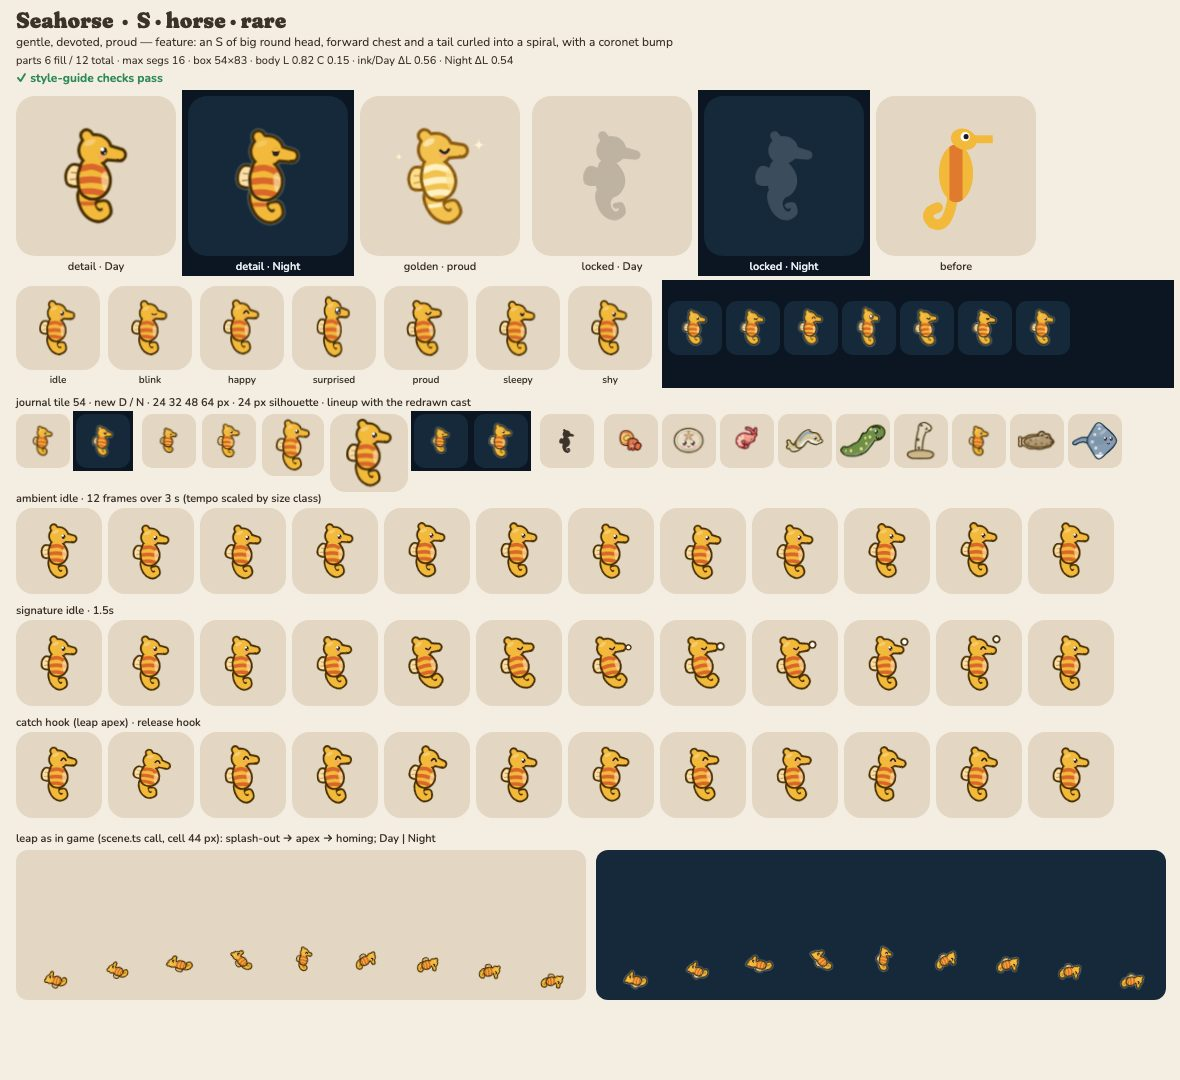
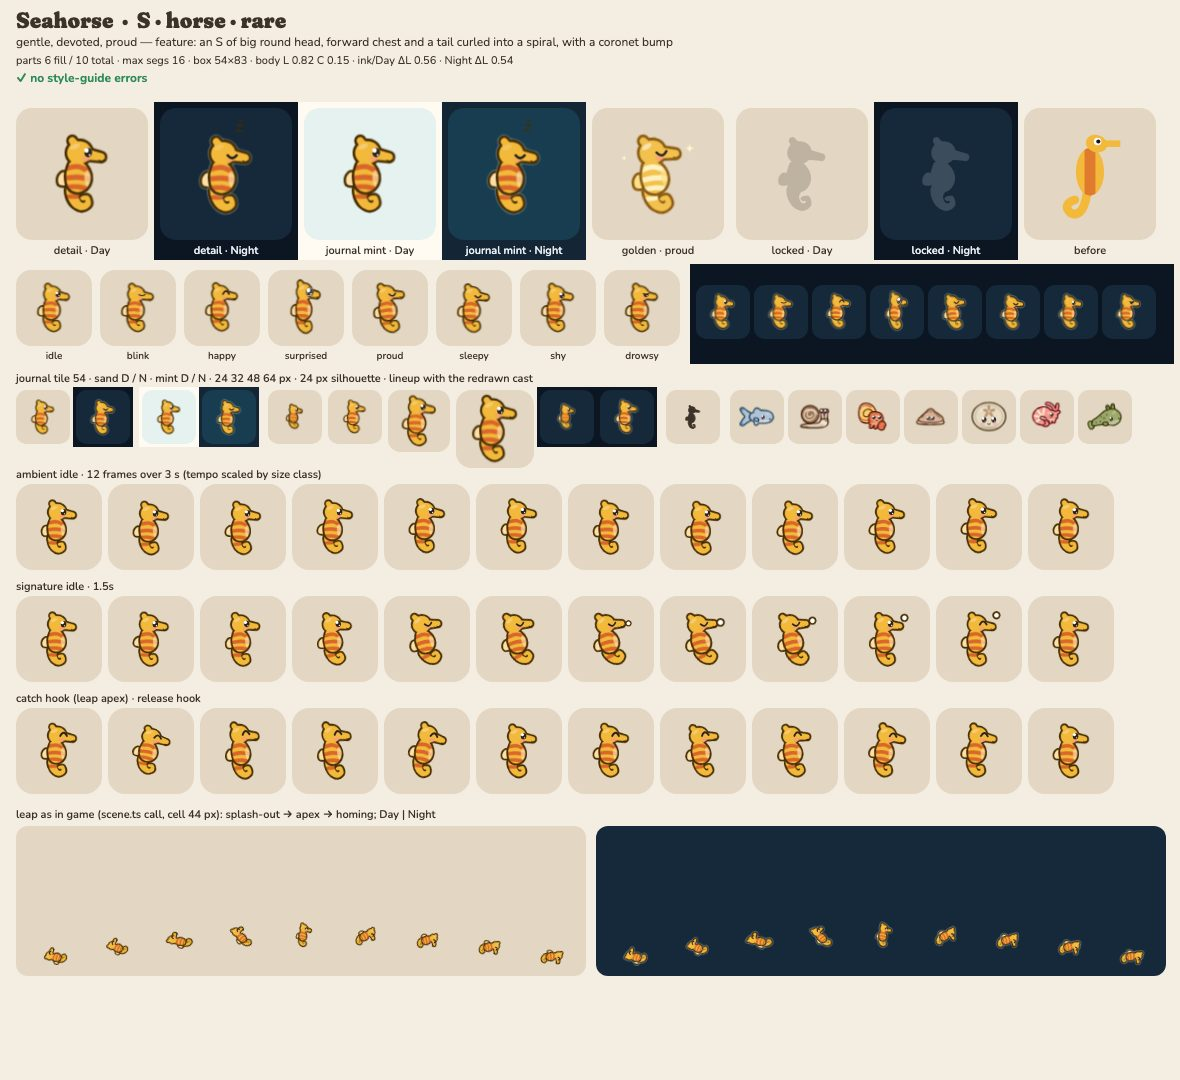
render: seahorse B fixes — low small dorsal, longer snout, bigger eye (ADR 0011)
CRITIQUE-1 B. Dorsal fan shrunk ~30 % and moved low on the back (no more ear), snout +15 %, eye 10.4 u (floor 10.3), tail band and bubble meet the pattern minimums. Lint clean.

diff --git a/src/render/art/species/seahorse.ts b/src/render/art/species/seahorse.ts
@@ -7,7 +7,7 @@
 import { blob, capsule, circle, defineArt, ellipse, join, tube } from '../kit.ts';
 
 const head = ellipse(1, -24, 14, 13, -10);
-const snout = capsule(10, -22, 6, 24, -19.5, 4.4);
+const snout = capsule(10, -22, 6, 26, -19, 4.4);
 const coronet = capsule(-4, -33, 5.6, -7, -37.5, 4.2);
 const torso = blob([
   [-8, -14],
@@ -29,12 +29,13 @@ const tail = tube([
   [10, 28, 3.2],
   [5, 28, 2.8],
 ]);
+// a small fan low on the back (bigger and higher, it read as an ear)
 const dorsal = blob([
-  [-11, -6],
-  [-20, -9],
-  [-25, -1],
-  [-23, 8],
-  [-12, 8],
+  [-11, 1],
+  [-18, -1.5],
+  [-23, 5],
+  [-21.5, 12.5],
+  [-12, 12],
 ]);
 const bands = join(
   tube([
@@ -64,11 +65,8 @@ export default defineArt({
   groups: [
     {
       id: 'finA',
-      pivot: [-12, 1],
-      parts: [
-        { d: dorsal, role: 'belly' },
-        { d: 'M-13 -2L-21 -3M-13 3L-22 4', role: 'ink', kind: 'line', w: 1.2, alpha: 0.45 },
-      ],
+      pivot: [-12, 6],
+      parts: [{ d: dorsal, role: 'belly' }],
     },
     {
       id: 'tail',
@@ -78,8 +76,8 @@ export default defineArt({
         {
           d: join(
             tube([
-              [-12, 26, 1.6],
-              [0, 26, 1.6],
+              [-12, 26, 2.4],
+              [0, 26, 2.4],
             ]),
           ),
           role: 'accent',
@@ -100,20 +98,17 @@ export default defineArt({
     },
     {
       id: 'bubble',
-      pivot: [30, -22],
+      pivot: [32, -22],
       prop: true,
-      parts: [
-        { d: circle(30, -26, 4), role: 'white' },
-        { d: circle(28.6, -27.4, 1.2), role: 'ink', kind: 'pattern', alpha: 0.2 },
-      ],
+      parts: [{ d: circle(32, -26, 4), role: 'white' }],
     },
   ],
   shine: ellipse(-4, -31, 6, 2.8, -24),
   face: {
-    eyes: [[9, -23]],
-    eye: 7.2,
-    zone: [-10, -40, 26, 30],
-    mouth: { at: [24, -15.5], w: 4.4, shape: 'smile' },
+    eyes: [[11, -24]],
+    eye: 10.4,
+    zone: [-10, -51, 26, 47],
+    mouth: { at: [26, -15.5], w: 5, shape: 'smile' },
     sweet: true,
   },
   idle: {
